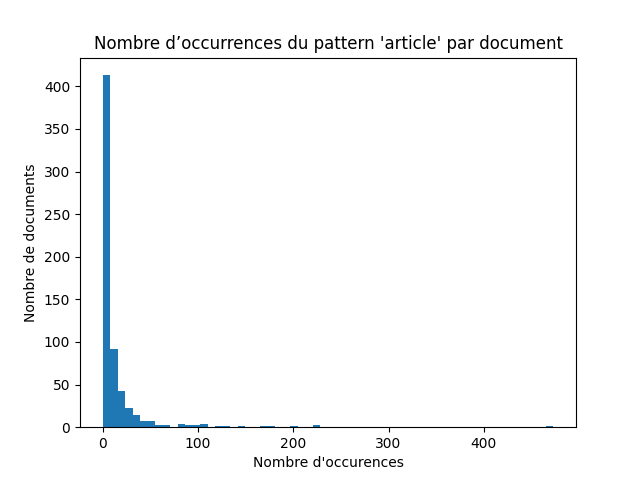
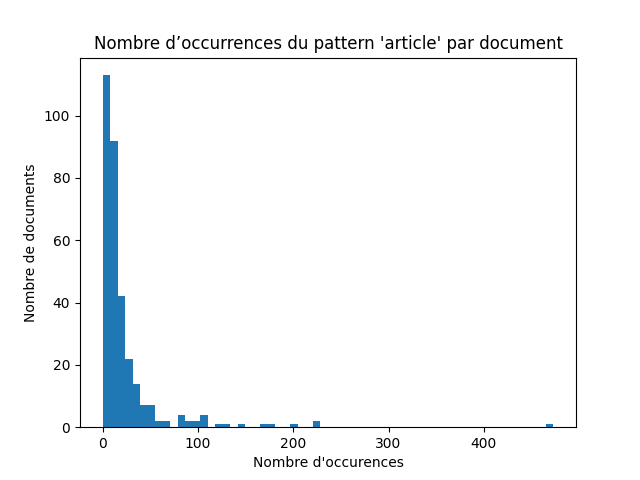
[fix] Consider only documents and not summaries to count occurrences of "article" in textual contents

diff --git a/src/polylex_chatbot/stats.py b/src/polylex_chatbot/stats.py
@@ -159,7 +159,7 @@ def compute_content_lengths(stats):
     return content_lengths
 
 def compute_and_save_nb_occ_article_plot(path, stats):
-    stats_without_summaries = stats[stats["suffix"] != ".txt"].copy()
+    stats_without_summaries = stats[stats["suffix"] != "txt"].copy()
     plt.hist(stats_without_summaries["nb_occ_article"], bins=60)
     plt.xlabel("Nombre d'occurences")
     plt.ylabel("Nombre de documents")